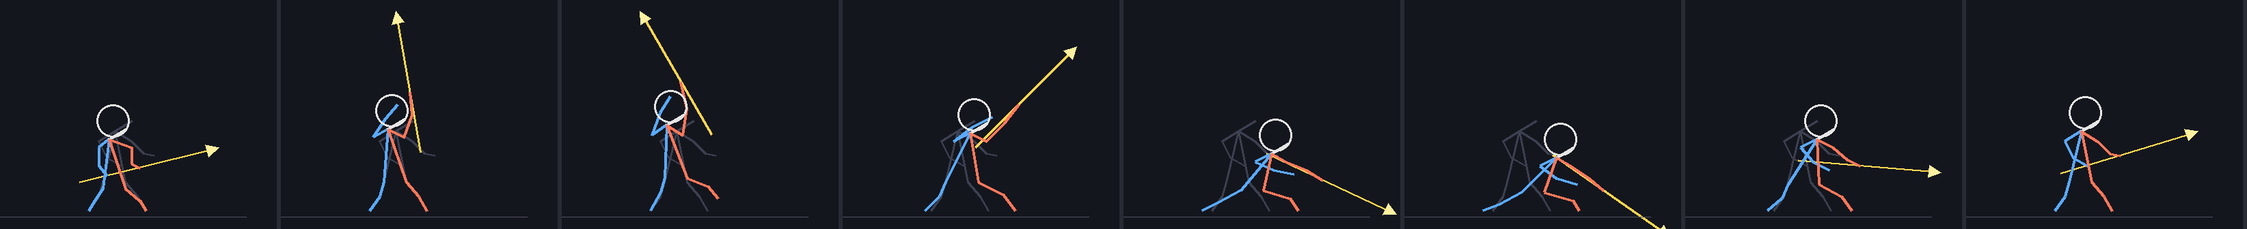
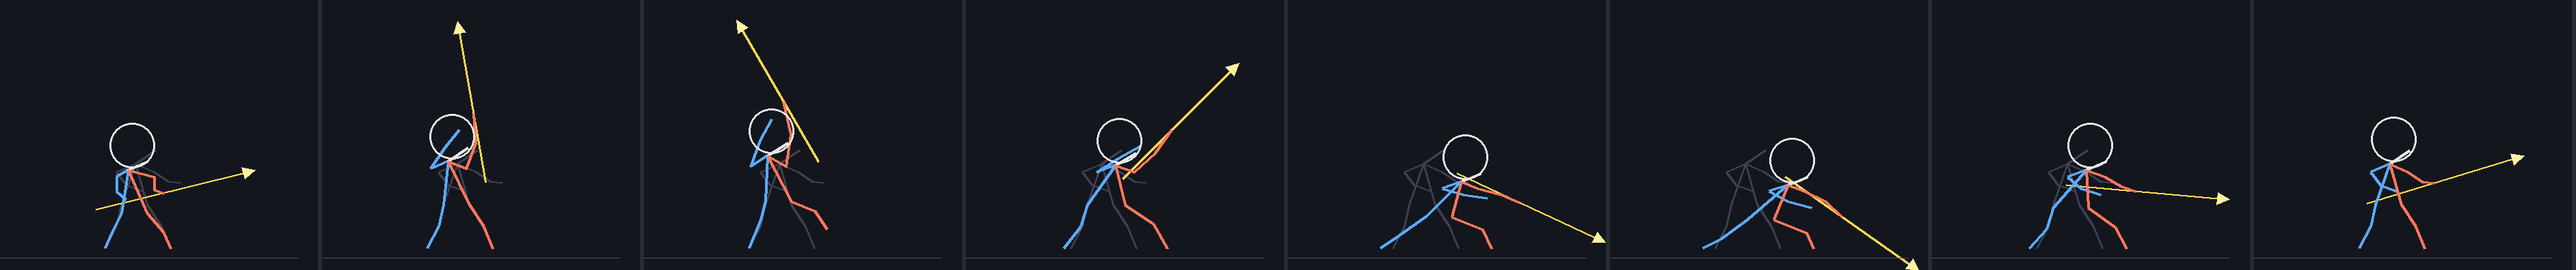
창기사 계열 새 디자인 시안 (그림체 B·키 46px): ComfyUI 20장(검사 방식 밑그림 늘리기), 몸 키 46칸 기준 줄이기, 대표 4장·실루엣 비교, 관절 시퀀스 3등신 비율로 — 검토 sheets-spear.html ▣ (PixelLab 0회)

diff --git a/dev/review/sheets-spear.html b/dev/review/sheets-spear.html
@@ -28,7 +28,7 @@
 <p class="sub">스펙 <code>docs/specs/legacy-class-sheets.md</code> · 창기사 · 용기병 · 할버디어 · 랜서 · 용황 · 전쟁군주 · 천마장군 · 2026-10-15</p>
 
 <div class="box">
-  <b>지금 상태 (2026-10-16 방향 전환)</b>: 디자인 새로 그리기 + 관절 지정 애니로 바뀌었다 → <b>0절</b>(디자인 브리프·관절 설계, 0회). 1~6절은 폐기된 마네킹 방식 기록이다 (PixelLab usage 11, SHEET_ON false).
+  <b>지금 상태</b>: ▣ 새 디자인 시안 (B 3등신·46px, 사용자 검사 대기). <b>방향 전환 (2026-10-16)</b>: 디자인 새로 그리기 + 관절 지정 애니로 바뀌었다 → <b>0절</b>(디자인 브리프·관절 설계, 0회). 1~6절은 폐기된 마네킹 방식 기록이다 (PixelLab usage 11, SHEET_ON false).
   <ul>
     <li>7종 기준 그림: 지금 게임의 대기 자세를 1도트 = 1px 로 찍어 칸(7종 모두 128 — 2026-10-16 창도 96 → 128)과 발 기준점에 맞췄다.</li>
     <li><code>SHEET_ON</code> 에 7종 줄을 넣었다 (모두 <code>false</code> — 시트가 승인되면 켠다). 주소 <code>?sheets=0</code> 이면 전부 꺼진다.</li>
@@ -36,6 +36,25 @@
     <li>시트 조립 <code>dev/spear/build.py</code>: 프레임 소스(지금은 기존 그림 자리표시, 나중엔 생성 결과)와 상관없이 같은 규격으로 시트·메타·몽타주·GIF 를 만든다. 칸 가장자리 닿음(잘림) 검사, hand(무기 끝)·head 점 자동.</li>
   </ul>
 </div>
+
+<h2>▣ 새 디자인 시안 — 그림체 B(3등신) · 키 46px (2026-10-16, PixelLab 0회 · ComfyUI 20장)</h2>
+<div class="box"><b>사용자 확정</b>: 그림체 B(3등신), 게임 안 키 1.3배(약 46px). 기준 시안은 검사 세션 <code>sheets-sword.html</code> ▣ 절.
+<ul><li>만든 법 (검사 세션과 같음): 지금 그림의 머리는 두고 목 아래만 세로 1.5배 늘린 밑그림 → ComfyUI Z-Image + 픽셀 LoRA, denoise 0.82, 시드 11·23·37·51 → 1024 를 <b>몸 키(투구 몸체 꼭대기 ~ 발, 깃털·뿔 제외) 46칸</b>으로 줄임(칸마다 최빈색, 외곽선 #0b0d14). 도구 <code>dev/spear/design.py</code>.</li>
+<li>밑그림: 용기병·창기사는 확정된 실루엣 장식(날개꼴 망토·비늘 견갑 / 깃발)을 입힌 그림, 할버디어·랜서는 지금 게임 그림 (랜서는 2차에 원뿔 랜스·방패를 덧그린 그림).</li>
+<li>프롬프트는 0절 디자인 브리프 그대로 (넓은 챙 철모 / 용 주둥이 투구·날개꼴 망토 / 버킷 투구·넓은 어깨·큰 도끼날 / 깃털 볏·카이트 방패·원뿔 랜스).</li>
+<li>이건 <b>디자인 고르기용 시안</b>이다. 고르면 PixelLab 으로 기준 그림을 정리하고(계획서 따로), 그 그림의 관절에 맞춰 0-2절 동작을 만든다. 무기는 동작마다 덧그린다.</li></ul></div>
+<h3>대표 그림 — 왼쪽 지금 게임 · 오른쪽 새 시안 (4배)</h3>
+<div class="scroll box"><img class="px" src="sheets-spear/design/now-vs-new.png" alt="지금과 새 시안"></div>
+<p class="sub">창기사 23 · 용기병 11 · 할버디어 51 · 랜서(2차) 23. 몸 키는 모두 46칸이고, 전체 높이는 장식·무기 때문에 48(창기사) · 51(용기병 뿔) · 67(할버디어 도끼) · 54(랜서 깃털) 이다.</p>
+<div class="scroll box"><img class="px" src="sheets-spear/design/now-vs-new-game.png" alt="2배"></div>
+<p class="sub">위: 2배 (게임 화면 크기에 가깝다).</p>
+<h3>실루엣 구분 (같은 계열 1·2차)</h3>
+<div class="tabs" id="dztabs"></div>
+<div class="scroll box"><img class="px" id="dzimg" alt="줄 세우기"></div>
+<ul class="sub"><li>창기사 = 넓은 챙 모자 + 창끝 깃발 · 용기병 = 뿔 달린 용 머리 + 등 뒤 날개 + 꼬리 · 할버디어 = 작은 버킷 투구·넓은 어깨 + 머리 위 큰 도끼날 · 랜서 = 높은 깃털 볏 + 큰 세로 방패.</li>
+<li>3차(용황·전쟁군주·천마장군)는 2차가 정해지면 그 그림을 이어 더 화려하게 그린다 (0-1절 브리프).</li></ul>
+<details><summary class="sub">후보 전부 (원본·46px)</summary><h3>창기사 — 밑그림 · 후보 4장 · 46px</h3><div class="grid"><div class="card"><img src="sheets-spear/design/t-init-lancer.jpg" style="image-rendering:auto" alt=""><div>밑그림 (목 아래 ×1.5)</div></div><div class="card"><img src="sheets-spear/design/t-lancer-11.jpg" style="image-rendering:auto" alt=""><div>창기사 · 11</div></div><div class="card"><img src="sheets-spear/design/t-lancer-23.jpg" style="image-rendering:auto" alt=""><div>창기사 · 23 ★</div></div><div class="card"><img src="sheets-spear/design/t-lancer-37.jpg" style="image-rendering:auto" alt=""><div>창기사 · 37</div></div><div class="card"><img src="sheets-spear/design/t-lancer-51.jpg" style="image-rendering:auto" alt=""><div>창기사 · 51</div></div><div class="card"><img src="sheets-spear/design/px-lancer-11-h46.png" alt=""><div>46px · 11</div></div><div class="card"><img src="sheets-spear/design/px-lancer-23-h46.png" alt=""><div>46px · 23</div></div><div class="card"><img src="sheets-spear/design/px-lancer-37-h46.png" alt=""><div>46px · 37</div></div><div class="card"><img src="sheets-spear/design/px-lancer-51-h46.png" alt=""><div>46px · 51</div></div></div><h3>용기병 — 밑그림 · 후보 4장 · 46px</h3><div class="grid"><div class="card"><img src="sheets-spear/design/t-init-dragoon.jpg" style="image-rendering:auto" alt=""><div>밑그림 (목 아래 ×1.5)</div></div><div class="card"><img src="sheets-spear/design/t-dragoon-11.jpg" style="image-rendering:auto" alt=""><div>용기병 · 11 ★</div></div><div class="card"><img src="sheets-spear/design/t-dragoon-23.jpg" style="image-rendering:auto" alt=""><div>용기병 · 23</div></div><div class="card"><img src="sheets-spear/design/t-dragoon-37.jpg" style="image-rendering:auto" alt=""><div>용기병 · 37</div></div><div class="card"><img src="sheets-spear/design/t-dragoon-51.jpg" style="image-rendering:auto" alt=""><div>용기병 · 51</div></div><div class="card"><img src="sheets-spear/design/px-dragoon-11-h46.png" alt=""><div>46px · 11</div></div><div class="card"><img src="sheets-spear/design/px-dragoon-23-h46.png" alt=""><div>46px · 23</div></div><div class="card"><img src="sheets-spear/design/px-dragoon-37-h46.png" alt=""><div>46px · 37</div></div><div class="card"><img src="sheets-spear/design/px-dragoon-51-h46.png" alt=""><div>46px · 51</div></div></div><h3>할버디어 — 밑그림 · 후보 4장 · 46px</h3><div class="grid"><div class="card"><img src="sheets-spear/design/t-init-halberdier.jpg" style="image-rendering:auto" alt=""><div>밑그림 (목 아래 ×1.5)</div></div><div class="card"><img src="sheets-spear/design/t-halberdier-11.jpg" style="image-rendering:auto" alt=""><div>할버디어 · 11</div></div><div class="card"><img src="sheets-spear/design/t-halberdier-23.jpg" style="image-rendering:auto" alt=""><div>할버디어 · 23</div></div><div class="card"><img src="sheets-spear/design/t-halberdier-37.jpg" style="image-rendering:auto" alt=""><div>할버디어 · 37</div></div><div class="card"><img src="sheets-spear/design/t-halberdier-51.jpg" style="image-rendering:auto" alt=""><div>할버디어 · 51 ★</div></div><div class="card"><img src="sheets-spear/design/px-halberdier-11-h46.png" alt=""><div>46px · 11</div></div><div class="card"><img src="sheets-spear/design/px-halberdier-23-h46.png" alt=""><div>46px · 23</div></div><div class="card"><img src="sheets-spear/design/px-halberdier-37-h46.png" alt=""><div>46px · 37</div></div><div class="card"><img src="sheets-spear/design/px-halberdier-51-h46.png" alt=""><div>46px · 51</div></div></div><h3>랜서 — 밑그림 · 후보 4장 · 46px</h3><div class="grid"><div class="card"><img src="sheets-spear/design/t-init-cavalier2.jpg" style="image-rendering:auto" alt=""><div>밑그림 (목 아래 ×1.5)</div></div><div class="card"><img src="sheets-spear/design/t-cavalier2-11.jpg" style="image-rendering:auto" alt=""><div>랜서 · 11</div></div><div class="card"><img src="sheets-spear/design/t-cavalier2-23.jpg" style="image-rendering:auto" alt=""><div>랜서 · 23 ★</div></div><div class="card"><img src="sheets-spear/design/t-cavalier2-37.jpg" style="image-rendering:auto" alt=""><div>랜서 · 37</div></div><div class="card"><img src="sheets-spear/design/t-cavalier2-51.jpg" style="image-rendering:auto" alt=""><div>랜서 · 51</div></div><div class="card"><img src="sheets-spear/design/px-cavalier2-11-h46.png" alt=""><div>46px · 11</div></div><div class="card"><img src="sheets-spear/design/px-cavalier2-23-h46.png" alt=""><div>46px · 23</div></div><div class="card"><img src="sheets-spear/design/px-cavalier2-37-h46.png" alt=""><div>46px · 37</div></div><div class="card"><img src="sheets-spear/design/px-cavalier2-51-h46.png" alt=""><div>46px · 51</div></div></div><p class="sub">랜서 1차(지금 게임 그림 밑그림): 돌격창이 칼처럼 생겨 모델이 랜스를 못 그리고, 37·51 은 등신이 너무 높았다 → 2차는 원뿔 랜스·방패를 덧그린 그림을 밑그림으로 다시 뽑았다.</p><div class="grid"><div class="card"><img src="sheets-spear/design/t-cavalier-11.jpg" style="image-rendering:auto" alt=""><div>랜서 1차 · 11</div></div><div class="card"><img src="sheets-spear/design/t-cavalier-23.jpg" style="image-rendering:auto" alt=""><div>랜서 1차 · 23</div></div><div class="card"><img src="sheets-spear/design/t-cavalier-37.jpg" style="image-rendering:auto" alt=""><div>랜서 1차 · 37</div></div><div class="card"><img src="sheets-spear/design/t-cavalier-51.jpg" style="image-rendering:auto" alt=""><div>랜서 1차 · 51</div></div></div></details>
+<p class="sub"><b>정할 것</b>: ① 대표 4장 방향이 괜찮은지 (다른 시드로 바꿀 직업) ② 랜서 랜스가 가늘다 — 기준 그림 정리(PixelLab) 때 원뿔 랜스로 바로잡을지, ComfyUI 로 더 뽑을지.</p>
 
 <h2>0. 새 디자인 브리프 + 관절 설계 (2026-10-16 방향 전환 — 0회 준비)</h2>
 <div class="box">사용자: "저퀄리티인 모델링 자체를 이쁘게 다시 그려보자. 모습이 바뀌어도 되니까". 기준 그림은 새로 디자인하고(그림체 기준은 검사 계열 시안 승인 뒤), 동작은 <b>관절 지정 애니</b>(animate-with-skeleton-v3)로 만든다.
@@ -241,6 +260,7 @@ tabs('gftabs', ORD7.map((c) => [c, NAME[c]]), (c) => { document.getElementById('
 tabs('mqtabs', [['idle', '대기 4f'], ['walk', '걷기 8f'], ['spearA', '찌르기 8f'], ['spearB', '내리찍기 8f'], ['halbA', '휩쓸기 8f'], ['halbB', '내려찍기 8f']], (k) => { document.getElementById('mqimg').src = 'sheets-spear/gen/mq-' + k + '.png'; });
 tabs('mvtabs', [['spearA', '찌르기'], ['spearB', '내리찍기'], ['halbA', '휩쓸기'], ['halbB', '내려찍기'], ['walk', '걷기']], (k) => { document.getElementById('mvimg').src = 'sheets-spear/gen/motion-' + k + '.png'; });
 tabs('sktabs', [['thrust', '찌르기'], ['slam', '내리찍기'], ['sweep', '휩쓸기'], ['chop', '내려찍기'], ['walk', '걷기'], ['idle', '대기']], (k) => { document.getElementById('skgif').src = 'sheets-spear/skel/stick-' + k + '.gif'; document.getElementById('skimg').src = 'sheets-spear/skel/stick-' + k + '.png'; });
+tabs('dztabs', [['color', '컬러'], ['gray', '흑백'], ['sil', '실루엣']], (k) => { document.getElementById('dzimg').src = 'sheets-spear/design/lineup-' + k + '.png'; });
 </script>
 </body>
 </html>

diff --git a/dev/spear/design.py b/dev/spear/design.py
@@ -1,0 +1,154 @@
+# 창기사 계열 새 디자인 시안 (스펙: 그림체 B 3등신 · 게임 안 키 1.3배 ≈ 46px, 2026-10-16 사용자 확정). PixelLab 0회.
+#  검사 세션 dev/sheets-sword/design.py 방식: 지금 그림의 머리는 두고 목 아래만 세로 1.5배 늘린 밑그림 → ComfyUI Z-Image + 픽셀 LoRA,
+#  denoise 0.82 로 다시 그림 (글로만 등신을 쓰면 모델이 무시) → 1024 → 키 46px 도트 (줄이기는 검사 세션 shrink 그대로).
+#  밑그림: 용기병·창기사는 확정된 실루엣 장식(날개꼴 망토·비늘 견갑 / 깃발)을 입힌 그림(dress.py out/dress/*-guard-new.png),
+#          할버디어·랜서는 지금 게임 그림(capture.js spearParts shots/p-<직업>-guard-full.png).
+#  실행 (ComfyUI 가상환경 파이썬, 서버 127.0.0.1:8188, 큐 보고 번갈아):
+#    C:\AI\ComfyUI\.venv\Scripts\python.exe -I -B dev/spear/design.py gen [직업 ...]   → design/raw/<직업>-<시드>.png
+#    ... design.py shrink                                                            → design/px/<직업>-<시드>-h46.png
+import os, sys, importlib.util
+from PIL import Image
+HERE = os.path.dirname(os.path.abspath(__file__))
+sys.path.insert(0, os.path.join(HERE, '..', 'comfy')); sys.path.insert(0, HERE)
+_sp = importlib.util.spec_from_file_location('sw_design', os.path.join(HERE, '..', 'sheets-sword', 'design.py'))
+SW = importlib.util.module_from_spec(_sp); _sp.loader.exec_module(SW)          # STYLE · shrink (검사 세션과 같은 그림체)
+D = os.path.join(HERE, 'design'); RAW = os.path.join(D, 'raw'); PX = os.path.join(D, 'px')
+H = 46
+STRETCH, DENOISE = 1.5, 0.82                     # 검사 세션 B2 와 같음
+BODY = 'Stylized proportions about 3 heads tall, slightly bigger head than real, sturdy body, medium legs.'     # SW.DIRS['B']
+SEEDS = [11, 23, 37, 51]
+
+# 디자인 브리프 (검토 sheets-spear.html 0-1절)
+WHO = {
+    'lancer': 'A young spearman squire knight in a green quilted vest over chainmail with brass buckles, a wide-brimmed iron kettle hat, '
+              'leather boots, holding a long wooden spear with a green swallowtail pennant tied just below the steel spearhead.',
+    'dragoon': 'A dragon knight in deep purple plate armor, a dragon-head helmet with a long snout visor and two horns curving back, '
+               'glowing golden eyes, layered dragon-scale pauldron on the shoulder, a bat-wing shaped cape spreading behind the back, '
+               'holding a long purple dragon spear with a winged spearhead.',
+    'halberdier': 'A heavy halberdier guard in steel plate armor with an orange surcoat with diagonal stripes, a plain bucket helmet with one '
+                  'horizontal eye slit, very wide square shoulder plates, a stocky broad body, holding a big halberd with a large axe blade, '
+                  'a back hook and a spike on top.',
+    'cavalier': 'A cavalry lancer knight in a royal blue surcoat over silver armor, a crested helmet with a tall red feather plume, '
+                'a long kite shield with a red emblem on the left arm, holding a thick cone-shaped jousting lance with a round hand guard.',
+}
+INIT = {'lancer': ('dress', 'lancer-guard-new.png'), 'dragoon': ('dress', 'dragoon-guard-new.png'),
+        'halberdier': ('shot', 'p-halberdier-guard-full.png'), 'cavalier': ('shot', 'p-cavalier-guard-full.png'),
+        # 랜서 2차: 지금 그림의 돌격창이 칼처럼 생겨(굵은 흰 날) 모델이 랜스를 못 그림 → 덧그린 원뿔 랜스·방패를 입힌 그림을 밑그림으로
+        'cavalier2': ('dress', 'cavalier-guard-d0.png')}
+WHO['cavalier2'] = WHO['cavalier']
+
+
+def ref(cls):
+    kind, f = INIT[cls]
+    p = os.path.join(HERE, 'out', 'dress', f) if kind == 'dress' else os.path.join(HERE, 'shots', f)
+    im = Image.open(p).convert('RGBA'); px = im.load()
+    for y in range(im.height):
+        for x in range(im.width):
+            c = px[x, y]; px[x, y] = c[:3] + (255,) if c[3] >= 160 else (0, 0, 0, 0)
+    return im
+
+
+def init_stretch(cls, f=STRETCH):
+    """머리는 두고 목(땅 − 19칸) 아래만 세로 f 배 → 1024 연회색 바탕 (검사 세션 init_stretch 와 같은 규칙)"""
+    im = ref(cls); bb = im.getbbox(); im = im.crop(bb)
+    neck = (bb[3] - 1 - 19) - bb[1]
+    head, body = im.crop((0, 0, im.width, neck)), im.crop((0, neck, im.width, im.height))
+    body = body.resize((body.width, round(body.height * f)), Image.NEAREST)
+    st = Image.new('RGBA', (im.width, head.height + body.height)); st.alpha_composite(head); st.alpha_composite(body, (0, head.height))
+    s = 900 / max(st.size); st = st.resize((round(st.width * s), round(st.height * s)), Image.NEAREST)
+    bg = Image.new('RGBA', (1024, 1024), (200, 200, 204, 255)); bg.alpha_composite(st, ((1024 - st.width) // 2, (1024 - st.height) // 2))
+    return bg.convert('RGB')
+
+
+def weapon_mask(cls, im):
+    """밑그림(1배)의 무기 칸: 지금 게임 무기 색(무기 색만 바꿔 찍은 캡처와 다른 칸의 색)인 칸"""
+    base = cls.rstrip('0123456789')
+    a = Image.open(os.path.join(HERE, 'shots', f'p-{base}-guard-noacc.png')).convert('RGBA'); b = Image.open(os.path.join(HERE, 'shots', f'p-{base}-guard-wcol.png')).convert('RGBA')
+    A, B = a.load(), b.load()
+    cols = {A[x, y][:3] for y in range(a.height) for x in range(a.width) if A[x, y][3] >= 160 and A[x, y] != B[x, y]} - {(0x0b, 0x0d, 0x14)}
+    P = im.load()
+    return {(x, y) for y in range(im.height) for x in range(im.width) if P[x, y][3] and P[x, y][:3] in cols}
+
+
+def body_height(cls):
+    """지금 게임 그림의 몸 키(투구 꼭대기 ~ 발, 1배) — 검사 세션 부위 가르기(parts)의 투구 칸 꼭대기. 무기 색 섞임(빛번짐)과 상관없다"""
+    import dress as DR
+    base = cls.rstrip('0123456789'); arch = DR.ARCH[base]
+    full = DR.cap('p-' + base, 'guard', 'noacc', arch); wpn = DR.wpn_of('p-' + base, 'guard', arch)
+    CP = DR.parts(full, DR.body_of(full, wpn), wpn)
+    top = min(y for (x, y), k in CP.items() if k == 'helm'); g = full.getbbox()[3] - 1
+    return top - 1, g                     # 투구 외곽선 1칸 포함
+
+
+def body_cell(cls):
+    """1024 시안에서 도트 한 칸 크기: 무기를 뺀 몸 키(투구 꼭대기 ~ 발)가 46칸이 되게. 밑그림 배치(머리 그대로·목 아래 ×1.5·900 맞춤)로 계산"""
+    im = ref(cls); bb = im.getbbox()
+    top_c, g_c = body_height(cls); bh = g_c - top_c + 1           # 몸 키 (밑그림과 같은 1배 — 입힌 그림도 머리는 직업 그림 그대로)
+    g = bb[3] - 1; neck = g - 19
+    st_h = (neck - bb[1]) + round((bb[3] - neck) * STRETCH)
+    s = 900 / max(st_h, bb[2] - bb[0])
+    body_h = ((bh - 20) + 20 * STRETCH) * s                       # 목(땅 − 19) 위는 그대로, 아래 20칸은 ×1.5
+    return body_h / H
+
+
+def shrink_body(im, cls):
+    """검사 세션 shrink 를 몸 키 기준 칸 크기로 (무기가 높거나 길어도 몸은 46칸)"""
+    import numpy as np
+    a, m = SW.fg(im); ys, xs = np.nonzero(m)
+    if len(ys) == 0: return None
+    y0, y1 = np.percentile(ys, [0.3, 99.9])
+    return SW.shrink(im, max(8, round((int(y1) + 1 - int(y0)) / body_cell(cls))))
+
+
+def gen(classes):
+    from comfy import gen as G
+    os.makedirs(RAW, exist_ok=True)
+    for cls in classes:
+        init = init_stretch(cls); init.save(os.path.join(RAW, f'_init-{cls}.png'))
+        for s in SEEDS:
+            out = os.path.join(RAW, f'{cls}-{s}.png')
+            if os.path.exists(out): continue
+            ims, dt = G('zimg', SW.STYLE.format(who=WHO[cls], body=BODY), seed=s, denoise=DENOISE, init=init)
+            ims[0].save(out); print(cls, s, f'{dt:.1f}s', flush=True)
+
+
+# 대표 시안: 원본(1024)에서 눈으로 읽은 투구 몸체 꼭대기 · 발바닥 (깃털·뿔 장식 제외). 모델이 밑그림보다 인물을 키우거나 줄여 그려서
+#  밑그림 기하(body_cell)로는 키가 들쭉날쭉했다 → 대표는 이 값으로 몸 키를 정확히 46칸에 맞춘다
+PICK = {'lancer': ('lancer-23', 204, 843), 'dragoon': ('dragoon-11', 312, 750), 'halberdier': ('halberdier-51', 337, 951), 'cavalier': ('cavalier2-23', 250, 941)}
+
+
+def shrink_pick(cls):
+    import numpy as np
+    name, top, foot = PICK[cls]
+    im = Image.open(os.path.join(RAW, name + '.png')).convert('RGB'); a = np.asarray(im).copy()
+    border = np.concatenate([a[0], a[-1], a[:, 0], a[:, -1]]); a[foot + 1:] = np.median(border, axis=0)     # 발밑 그림자 지우기
+    im = Image.fromarray(a)
+    _, m = SW.fg(im); ys, _x = np.nonzero(m); y0, y1 = np.percentile(ys, [0.3, 99.9])
+    o = SW.shrink(im, max(8, round((int(y1) + 1 - int(y0)) / ((foot - top) / H))))
+    # 발밑에 남은 바닥 줄: 맨 아래 줄이 위 줄보다 1.4배 넘게 넓으면 지운다 (두 번까지)
+    P = o.load(); W_, H_ = o.size
+    for _ in range(2):
+        bb = o.getbbox(); yb = bb[3] - 1
+        w = lambda y: [x for x in range(W_) if P[x, y][3]]
+        a_, b_ = w(yb), w(yb - 1)
+        if a_ and b_ and (max(a_) - min(a_)) > 1.4 * (max(b_) - min(b_)):
+            for x in range(W_): P[x, yb] = (0, 0, 0, 0)
+    return o.crop(o.getbbox())
+
+
+def shrink_all():
+    os.makedirs(PX, exist_ok=True)
+    for f in sorted(os.listdir(RAW)):
+        if not f.endswith('.png') or f.startswith('_'): continue
+        o = shrink_body(Image.open(os.path.join(RAW, f)), f.rsplit('-', 1)[0])
+        if o is not None: o.save(os.path.join(PX, f[:-4] + f'-h{H}.png'))
+    print('shrunk', len(os.listdir(PX)))
+
+
+if __name__ == '__main__':
+    if sys.argv[1] == 'gen': gen(sys.argv[2:] or list(WHO))
+    elif sys.argv[1] == 'shrink': shrink_all()
+    elif sys.argv[1] == 'pick':
+        os.makedirs(PX, exist_ok=True)
+        for c in PICK: shrink_pick(c).save(os.path.join(PX, f'pick-{c}-h{H}.png'))
+        print('pick', list(PICK))

diff --git a/docs/specs/legacy-class-sheets.md b/docs/specs/legacy-class-sheets.md
@@ -181,7 +181,8 @@
   - 계획(디자인 승인 뒤 로드맵 제출): 직업당 기준 정리 `edit-image-pixen` 1 + `animate-with-skeleton-v3` 15프레임 2회(4+4). 값은 명세의 3f = 2 · 8f = 3 · 15f = 4(칸 무관)를 근거로 했다.
     - 대기는 코드로 만든다.
     - 4직업 36, 재시도 0.
-
+- 2026-10-16: 검사 계열 디자인 시안 (그림체 기준, PixelLab 0회 · ComfyUI 48장). 성기사·검사 × 방향 A 2.5등신(지금 비율) · B 3등신 · C 4등신 날렵 × 시드 4. 글로만 등신을 쓰면 모델이 무시해(5~6등신·3/4 정면) **머리는 두고 목 아래만 세로로 늘린 지금 스프라이트를 밑그림**으로 denoise 0.82~0.85 로 다시 그렸다(`dev/sheets-sword/design.py`). 키 35·46·52px(1·1.3·1.5배)로 줄인 모습과 게임 화면 합성 캡처를 검토 페이지 ▣ 절에. 1024 원본은 저장소 밖 `C:\AI\comfy-raw\sheets-sword`. 관찰: A 가 35px 에서 가장 또렷, B 는 1.3배 이상, C 는 52px 에서도 가늘다. 사용자 결정 대기(방향·키).
+- 2026-10-16 창기사 계열 새 디자인 시안 (그림체 B·키 46px, PixelLab 0회, ComfyUI 20장): 검사 세션 방식(머리 유지·목 아래 ×1.5 밑그림, Z-Image denoise 0.82) `dev/spear/design.py`. 밑그림은 용기병·창기사 = 실루엣 장식 입힌 그림, 할버디어·랜서 = 지금 그림(랜서는 랜스가 칼처럼 나와 덧그린 랜스·방패 그림으로 4장 더). 줄이기는 무기·장식을 뺀 **몸 키(투구 몸체 ~ 발) 46칸** 기준 — 검사 shrink 는 무기 포함 높이를 맞춰 도끼를 든 할버디어가 작아졌다. 대표: 창기사 23 · 용기병 11 · 할버디어 51 · 랜서 2차 23 (원본에서 읽은 투구·발 높이로 46칸). 관절 시퀀스(`skel.py`)를 3등신·키 69/192 비율로 변환(높이 마디 다시 매김, 가로 ×1.15). 검토 `sheets-spear.html` ▣ 절, 사용자 검사 대기.
 ## 남은 일 / 미정
 - 2026-10-16 레인저 계열 보류 (로드맵 검수 요청): 덧그리기 전 PixelLab 원본(마네킹)을 몽타주로 확인 — 활 쏘기는 뒷손 시위 당김이 없고 앞팔만 조금(손 약 4도트), 석궁 쏘기는 거의 정지, 공성 쏘기만 반동이 보임, 활 하늘 쏘기는 팔을 머리 위로 치켜듦(당기기 없음), 걷기 3종은 좋음. 검사 계열과 같은 "공격 때 몸·팔이 안 움직임" 문제가 원본부터 있다. 남은 PixelLab 호출 없음(usage 12 그대로), approved.txt 비움, SHEET_ON false. 확인 `dev/bowsheets/motion.py`, 검토 0-1절.
 - 레인저 계열: 7종 시트를 사용자가 보고 직업별로 `SHEET_ON` 을 켤지 정한다 (dev/review/sheets-bow.html 0절, `?sheetsOn=`). 활 쏘기 몸 움직임이 모자라면 활 shoot 만 다시 뽑는 안(usage 2)을 계획서로.
